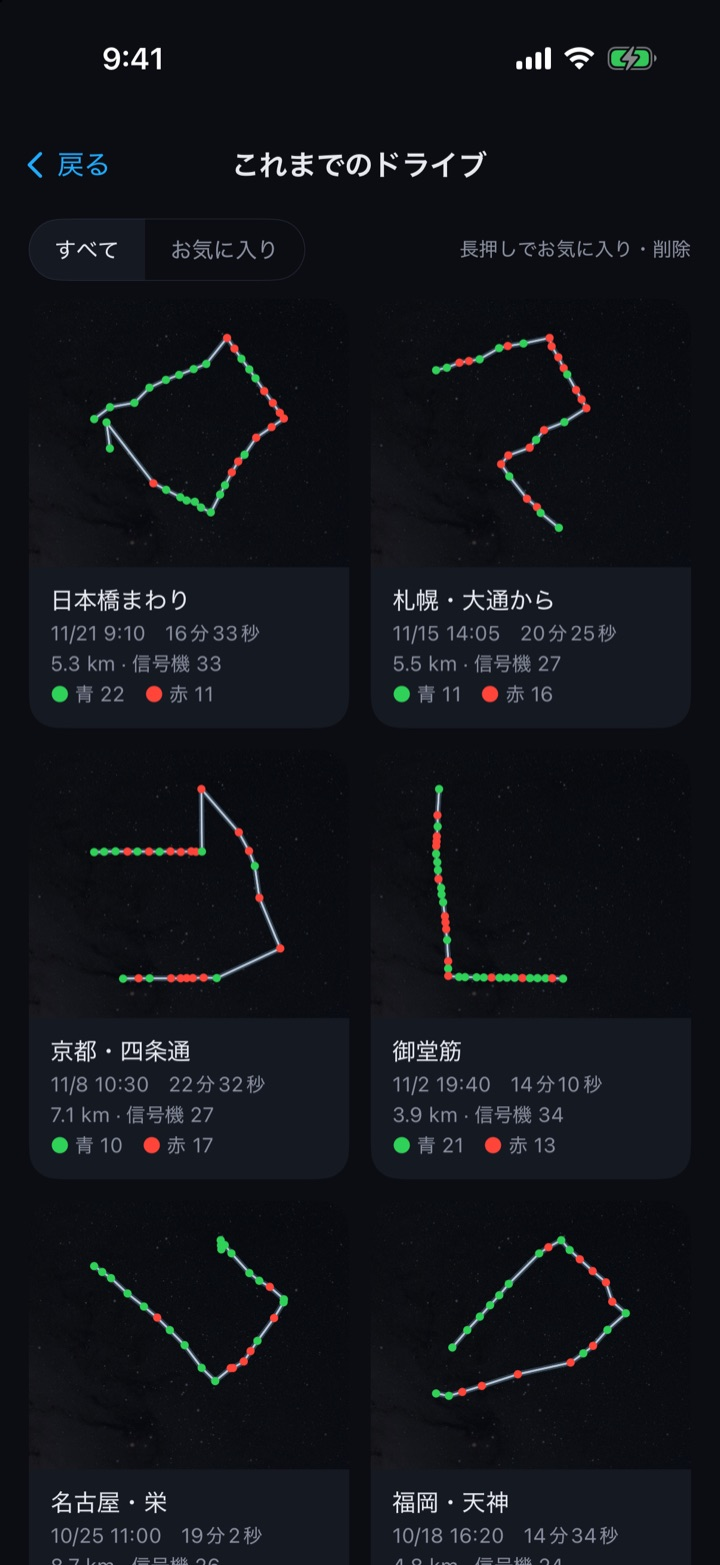
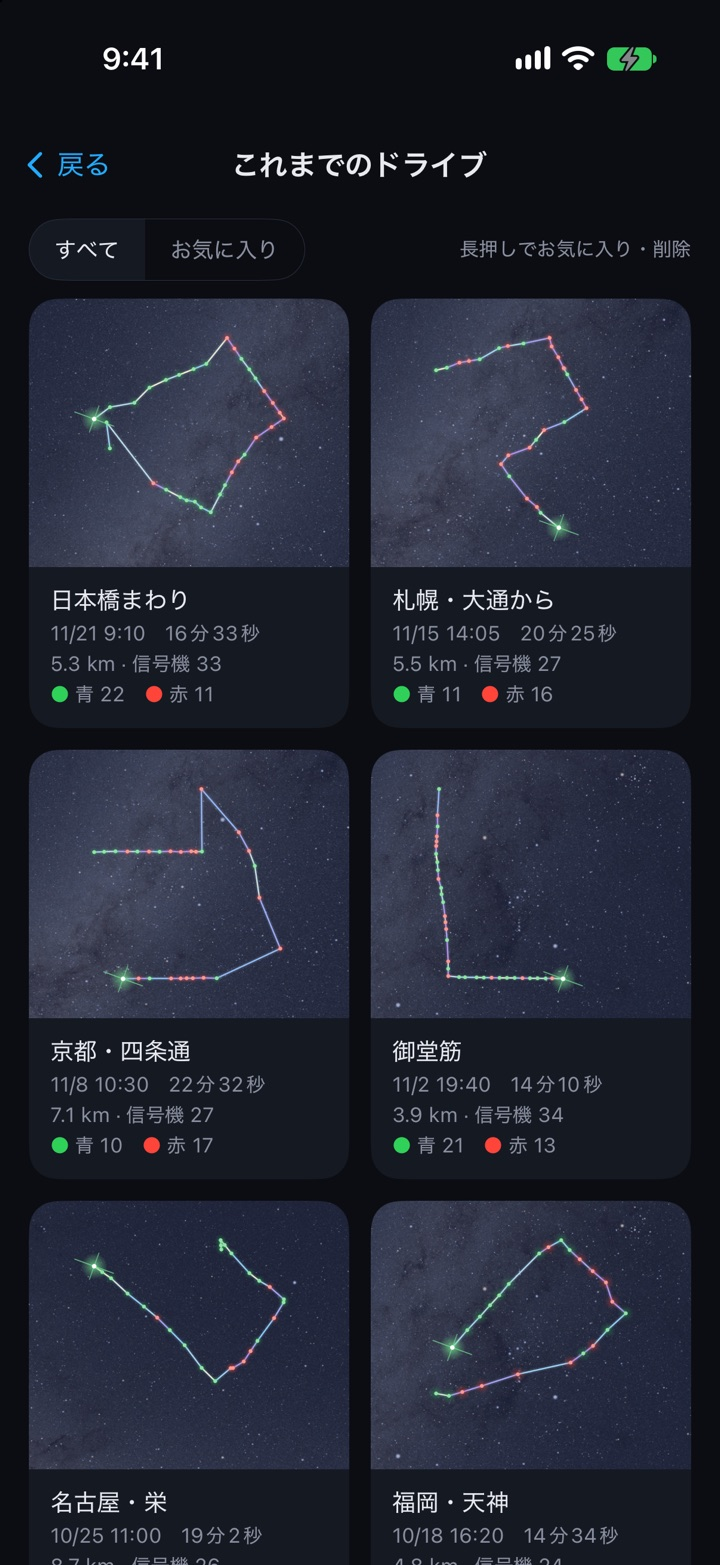
ミチボシ：一覧の画面写真を 1.0.2 の見た目（紺の星空・速さの色の細い線・最後の信号機のきらめき）で撮り直した（ユーザー「公式サイトの一覧も現在のバージョンに合わせて作り直して」）
見本のドライブ 8 本（架空の道・~/Documents/signaldrive-store/demo）を iPhone 17 のシミュレータで撮影。

diff --git a/michiboshi/index.html b/michiboshi/index.html
@@ -206,7 +206,7 @@ p { margin: 0; }
         <figcaption class="caption"><b>ホーム</b>　押すのは「ドライブを始める」だけ</figcaption>
       </figure>
       <figure class="shot">
-        <img src="img/list.jpg" width="720" height="1565" loading="lazy" alt="「これまでのドライブ」の一覧。日本橋まわり・札幌・大通から・京都・四条通・御堂筋などのドライブが、緑と赤の点を結んだ星座の形で 2 列に並ぶ。">
+        <img src="img/list.jpg" width="720" height="1565" loading="lazy" alt="「これまでのドライブ」の一覧。日本橋まわり・札幌・大通から・京都・四条通・御堂筋などのドライブが、紺の星空を背景に、通った信号機を細い線で結んだ星座の形で 2 列に並ぶ。">
         <figcaption class="caption"><b>ギャラリー</b>　ドライブごとに星座が並ぶ</figcaption>
       </figure>
     </div>
